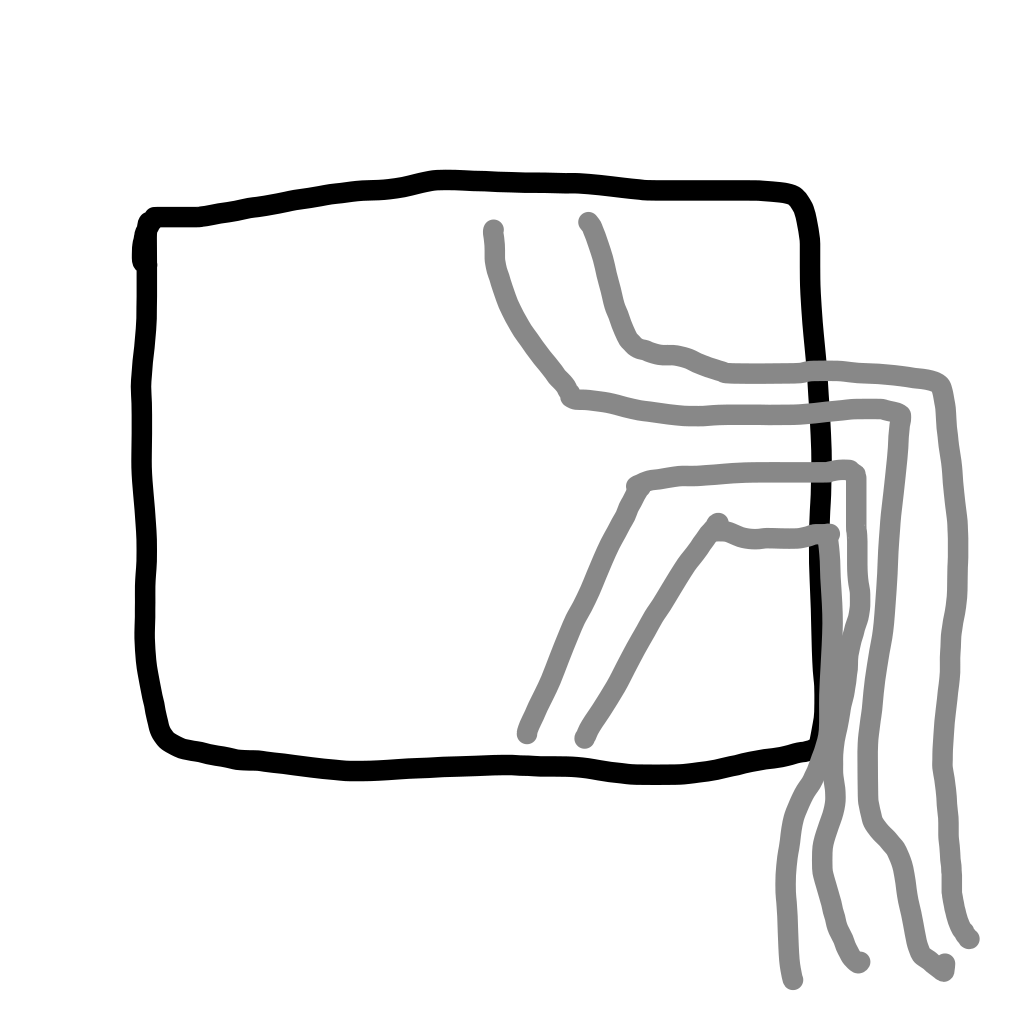
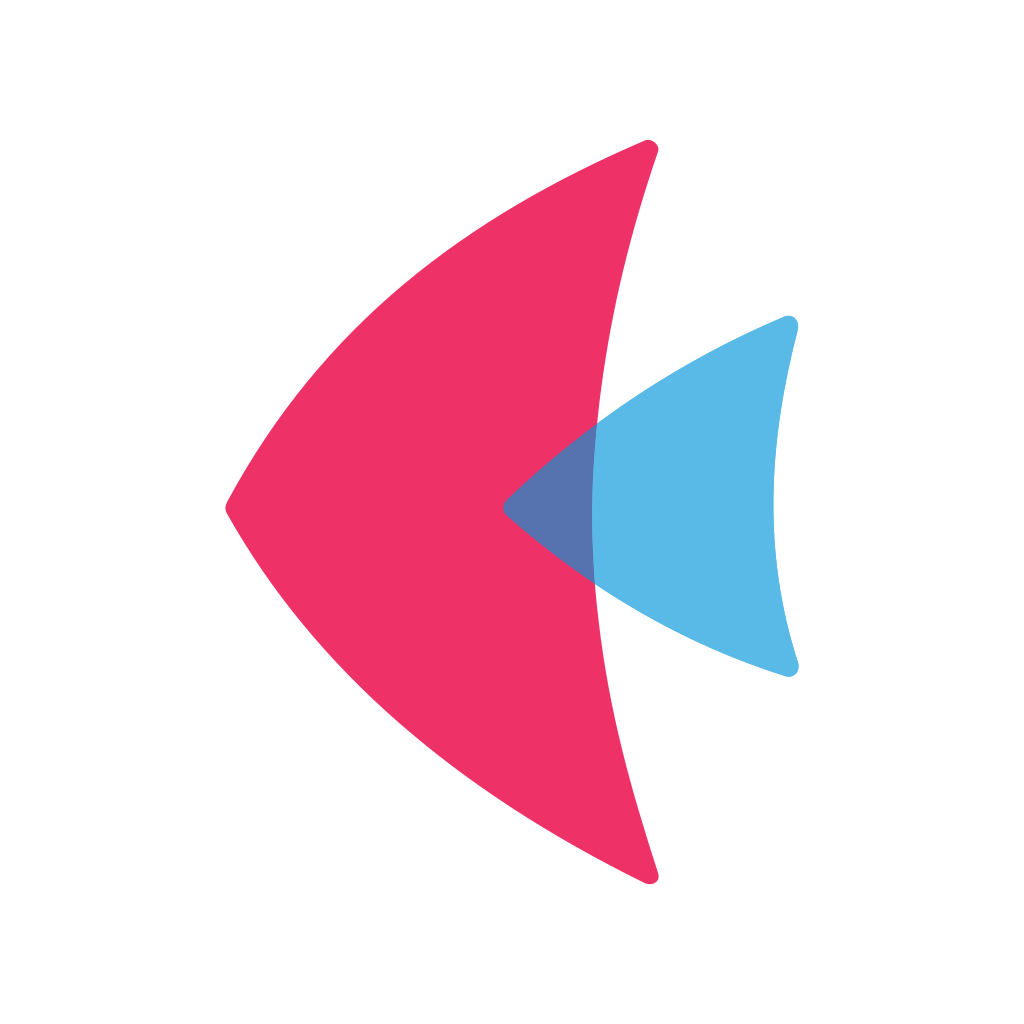
upgrade flet.

diff --git a/tests/test_main.py b/tests/test_main.py
@@ -1,0 +1,22 @@
+import flet.testing as ftt
+
+
+async def test_increment(flet_app: ftt.FletTestApp):
+    """Counter sample: tap the FAB and assert the counter goes 0 -> 1.
+
+    The `flet_app` fixture is provided automatically by the flet pytest plugin.
+    Run with `flet test` (or `uv run pytest`) from the project directory.
+    """
+    tester = flet_app.tester
+
+    await tester.pump_and_settle()
+
+    # Initial state
+    assert (await tester.find_by_text("0")).count == 1
+
+    # Tap the increment button (found by its key) and let the UI settle
+    await tester.tap(await tester.find_by_key("increment"))
+    await tester.pump_and_settle()
+
+    # New state
+    assert (await tester.find_by_text("1")).count == 1

diff --git a/README.md b/README.md
@@ -16,7 +16,7 @@ Run as a web app:
 uv run flet run --web
 ```
 
-For more details on running the app, refer to the [Getting Started Guide](https://docs.flet.dev/).
+For more details on running the app, refer to the [Getting Started Guide](https://flet.dev/docs/).
 
 ## Build the app
 
@@ -26,7 +26,7 @@ For more details on running the app, refer to the [Getting Started Guide](https:
 flet build apk -v
 ```
 
-For more details on building and signing `.apk` or `.aab`, refer to the [Android Packaging Guide](https://docs.flet.dev/publish/android/).
+For more details on building and signing `.apk` or `.aab`, refer to the [Android Packaging Guide](https://flet.dev/docs/publish/android/).
 
 ### iOS
 
@@ -34,7 +34,7 @@ For more details on building and signing `.apk` or `.aab`, refer to the [Android
 flet build ipa -v
 ```
 
-For more details on building and signing `.ipa`, refer to the [iOS Packaging Guide](https://docs.flet.dev/publish/ios/).
+For more details on building and signing `.ipa`, refer to the [iOS Packaging Guide](https://flet.dev/docs/publish/ios/).
 
 ### macOS
 
@@ -42,7 +42,7 @@ For more details on building and signing `.ipa`, refer to the [iOS Packaging Gui
 flet build macos -v
 ```
 
-For more details on building macOS package, refer to the [macOS Packaging Guide](https://docs.flet.dev/publish/macos/).
+For more details on building macOS package, refer to the [macOS Packaging Guide](https://flet.dev/docs/publish/macos/).
 
 ### Linux
 
@@ -50,7 +50,7 @@ For more details on building macOS package, refer to the [macOS Packaging Guide]
 flet build linux -v
 ```
 
-For more details on building Linux package, refer to the [Linux Packaging Guide](https://docs.flet.dev/publish/linux/).
+For more details on building Linux package, refer to the [Linux Packaging Guide](https://flet.dev/docs/publish/linux/).
 
 ### Windows
 
@@ -58,7 +58,7 @@ For more details on building Linux package, refer to the [Linux Packaging Guide]
 flet build windows -v
 ```
 
-For more details on building Windows package, refer to the [Windows Packaging Guide](https://docs.flet.dev/publish/windows/).
+For more details on building Windows package, refer to the [Windows Packaging Guide](https://flet.dev/docs/publish/windows/).
 
 ### Web
 
@@ -66,4 +66,4 @@ For more details on building Windows package, refer to the [Windows Packaging Gu
 flet build web -v
 ```
 
-For more details on building Web app, refer to the [Web Packaging Guide](https://docs.flet.dev/publish/web/).
+For more details on building Web app, refer to the [Web Packaging Guide](https://flet.dev/docs/publish/web/).